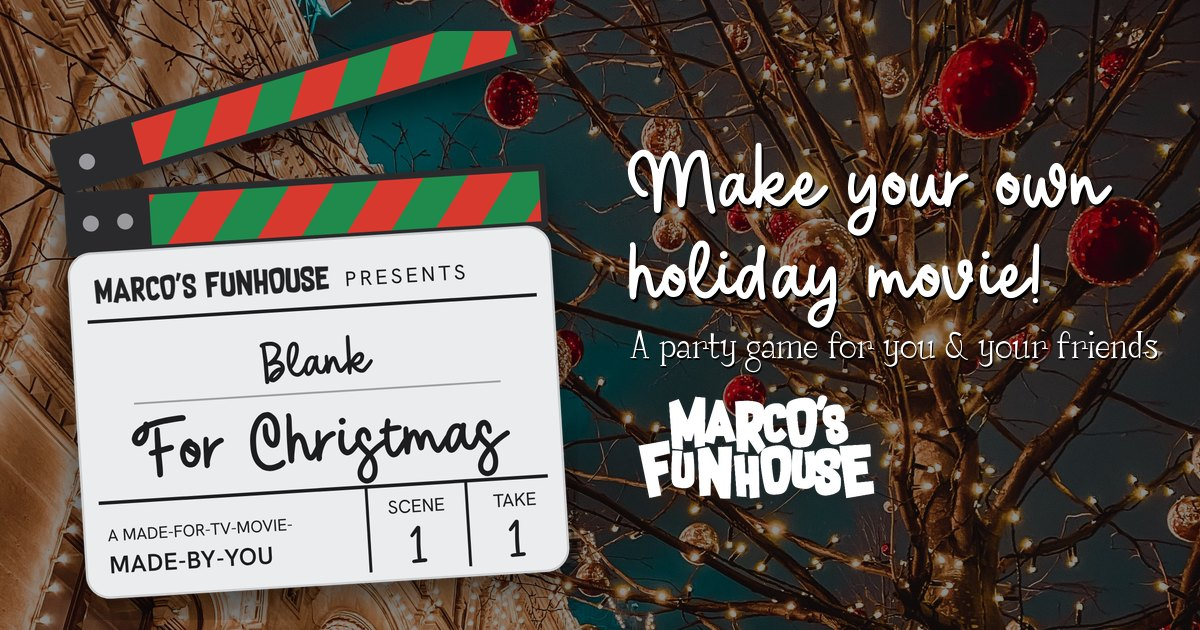
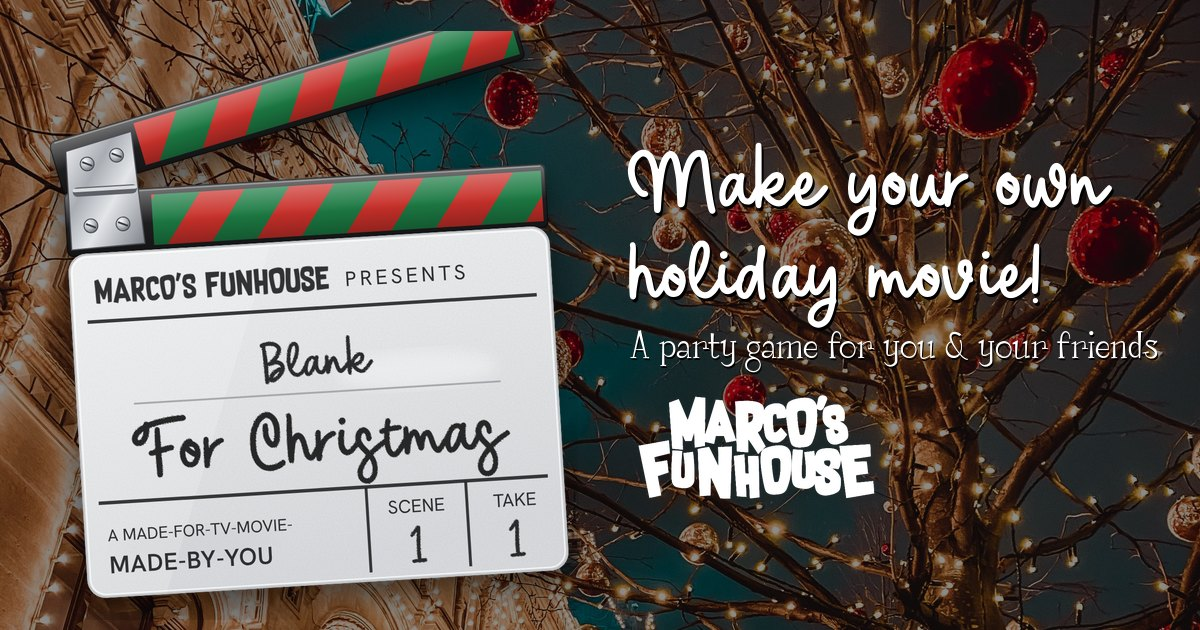
Realistic white-acrylic clapperboard (metal hinge, glossy sticks, marker ink) on home and in-game slates
Claude-Session: https://claude.ai/code/session_01WcKysh1K7ZYbByMHhZ1xmE

diff --git a/public/index.html b/public/index.html
@@ -578,10 +578,18 @@ blockquote.exec{margin:8px 0 6px;padding:2px 0 2px 14px;border-left:4px solid va
 figure.aud{margin:14px 0 0}
 figure.aud blockquote{margin:0;font-family:'Cortesia',cursive;font-size:24px;line-height:1.25}
 figure.aud figcaption{font-size:13px;color:var(--muted);margin-top:2px}
+
+/* realistic clapper sticks/hinge on in-game slates */
+:root{--hinge:linear-gradient(135deg,#f2f3f5 0%,#a9adb3 35%,#e3e5e8 60%,#7d8188 100%);--gloss:linear-gradient(180deg,rgba(255,255,255,.38),rgba(255,255,255,.06) 45%,rgba(0,0,0,.05) 55%,rgba(0,0,0,.35))}
+.round-head,.winner,.tvgrid h1{background:linear-gradient(165deg,#f4f5f6,#dcdee1);border-color:#b9bcc0;box-shadow:0 16px 32px rgba(0,0,0,.4),inset 0 0 0 2px rgba(255,255,255,.8)}
+.round-head::before,.winner::before,.tvgrid h1::before{background:radial-gradient(circle at 21px 18px,#fff 0 1px,#b9bcc1 2.5px,#5d6167 5.5px,transparent 6.5px),var(--hinge) 0 0/44px 100% no-repeat,var(--gloss),var(--stripe);box-shadow:inset 0 0 0 5px #1f1f21,inset 0 1px 0 6px rgba(255,255,255,.08)}
+.round-head::after,.winner::after,.tvgrid h1::after{background:radial-gradient(circle at 21px 15px,#fff 0 1px,#b9bcc1 2.5px,#5d6167 5.5px,transparent 6.5px),var(--hinge) 0 0/44px 100% no-repeat,var(--gloss),var(--stripe);box-shadow:inset 0 0 0 5px #1f1f21}
+.paper::before,.timer::before{background:radial-gradient(circle at 18px 12px,#fff 0 1px,#b9bcc1 2px,#5d6167 4.5px,transparent 5.5px),var(--hinge) 0 0/38px 100% no-repeat,var(--gloss),var(--stripe);box-shadow:inset 0 0 0 4px #1f1f21}
+.round-head h2,.winner h2,.winner h1,.slrow i{filter:url(#hmarkerfx)}
 </style>
 </head>
 <body>
-<div id="snow"></div><div id="flakes" aria-hidden="true"></div>
+<div id="snow"></div><div id="flakes" aria-hidden="true"></div><svg width="0" height="0" style="position:absolute" aria-hidden="true"><filter id="hmarkerfx"><feTurbulence type="fractalNoise" baseFrequency="1.6" numOctaves="1" seed="7" result="n"/><feDisplacementMap in="SourceGraphic" in2="n" scale="1.4"/></filter></svg>
 <div id="app"></div>
 <div id="modal"><div class="sheet" id="sheet"></div></div>
 <div id="toast"></div>
@@ -813,23 +821,32 @@ function slrow(left,scene,take){if(S.game&&S.game.solo&&/^Director/.test(left))l
 function vHome(){
   const saved=ls('hmh_session');const kb=S.ui.kitBusy&&S.ui.kitFrom==='home';
   return `<div class="home"><h1 class="sr">Blank for Christmas: make your own holiday movie</h1>
-  <svg class="slate" viewBox="0 0 460 500" role="img" aria-label="Clapperboard: Marco's Funhouse presents Blank for Christmas, a made-for-TV movie made by you. Scene 1, take 1."><defs><pattern id="stp" width="64" height="64" patternUnits="userSpaceOnUse" patternTransform="rotate(35)"><rect width="32" height="64" fill="#d8392f"/><rect x="32" width="32" height="64" fill="#1f8a4c"/></pattern></defs>
+  <svg class="slate" viewBox="0 0 460 500" role="img" aria-label="Clapperboard: Marco's Funhouse presents Blank for Christmas, a made-for-TV movie made by you. Scene 1, take 1."><defs>
+ <pattern id="stp" width="64" height="64" patternUnits="userSpaceOnUse" patternTransform="rotate(35)"><rect width="32" height="64" fill="#c9302a"/><rect x="32" width="32" height="64" fill="#1c7a43"/></pattern>
+ <linearGradient id="hgloss" x1="0" y1="0" x2="0" y2="1"><stop offset="0" stop-color="#fff" stop-opacity=".38"/><stop offset=".45" stop-color="#fff" stop-opacity=".06"/><stop offset=".55" stop-color="#000" stop-opacity=".05"/><stop offset="1" stop-color="#000" stop-opacity=".35"/></linearGradient>
+ <linearGradient id="hbody" x1="0" y1="0" x2=".25" y2="1"><stop offset="0" stop-color="#f4f5f6"/><stop offset="1" stop-color="#dcdee1"/></linearGradient>
+ <linearGradient id="hmetal" x1="0" y1="0" x2="1" y2="1"><stop offset="0" stop-color="#f2f3f5"/><stop offset=".35" stop-color="#a9adb3"/><stop offset=".6" stop-color="#e3e5e8"/><stop offset="1" stop-color="#7d8188"/></linearGradient>
+ <radialGradient id="hscrew" cx=".35" cy=".3" r=".8"><stop offset="0" stop-color="#fff"/><stop offset=".5" stop-color="#b9bcc1"/><stop offset="1" stop-color="#5d6167"/></radialGradient>
+ <filter id="hgrain" x="0" y="0" width="100%" height="100%"><feTurbulence type="fractalNoise" baseFrequency=".9" numOctaves="2" seed="4"/><feColorMatrix values="0 0 0 0 0  0 0 0 0 0  0 0 0 0 0  0 0 0 .07 0"/><feComposite in2="SourceGraphic" operator="in"/></filter>
+ <filter id="hmarker"><feTurbulence type="fractalNoise" baseFrequency="1.6" numOctaves="1" seed="7" result="n"/><feDisplacementMap in="SourceGraphic" in2="n" scale="1.6"/></filter>
+ <filter id="hsoft"><feGaussianBlur stdDeviation="6"/></filter>
+ <clipPath id="hclip"><rect x="22" y="182" width="420" height="300" rx="16"/></clipPath>
+</defs>
 <g transform="rotate(-3.5 230 300)">
- <g class="arm"><rect x="22" y="76" width="420" height="50" rx="4" fill="#2a2a2c"/><rect x="96" y="82" width="340" height="38" fill="url(#stp)"/></g>
- <rect class="clapbar" x="22" y="128" width="420" height="56" rx="4" fill="#2a2a2c"/><rect x="96" y="134" width="340" height="44" fill="url(#stp)"/>
- <circle cx="44" cy="102" r="7" fill="#9a9a9e"/><circle cx="44" cy="156" r="7" fill="#9a9a9e"/><circle cx="74" cy="156" r="7" fill="#9a9a9e"/>
- <rect x="22" y="182" width="420" height="300" rx="20" fill="#ebeced" stroke="#c9cbce" stroke-width="2"/>
- <image href="${MF_WORDMARK}" x="44" y="203" width="204" height="24" preserveAspectRatio="xMinYMid meet"/>
- <text class="g" x="262" y="224" font-size="18" letter-spacing="3">PRESENTS</text>
- <rect x="36" y="240" width="392" height="3" fill="#1d1d1f"/>
- <text class="c" id="blankWord" x="232" y="304" font-size="40" text-anchor="middle">Blank</text>
- <rect x="72" y="314" width="320" height="1.6" fill="#9b9da1"/>
- <text class="c" x="232" y="380" font-size="58" text-anchor="middle">For Christmas</text>
- <rect x="36" y="398" width="392" height="3" fill="#1d1d1f"/>
- <rect x="268" y="400" width="2.5" height="74" fill="#1d1d1f"/><rect x="355" y="400" width="2.5" height="74" fill="#1d1d1f"/>
- <text class="g" x="42" y="433" font-size="14.5">A MADE-FOR-TV-MOVIE-</text><text class="g" x="42" y="461" font-size="21" font-weight="600" letter-spacing=".5">MADE-BY-YOU</text>
- <text class="g" x="312" y="424" font-size="16" text-anchor="middle">SCENE</text><text class="c" x="312" y="468" font-size="40" text-anchor="middle">1</text>
- <text class="g" x="398" y="424" font-size="16" text-anchor="middle">TAKE</text><text class="c" x="398" y="468" font-size="40" text-anchor="middle">1</text>
+ <g class="arm"><rect x="22" y="78" width="420" height="48" rx="5" fill="#1f1f21"/><rect x="98" y="83" width="340" height="38" fill="url(#stp)"/><rect x="22" y="78" width="420" height="48" rx="5" fill="url(#hgloss)"/><rect x="22.5" y="78.5" width="419" height="47" rx="5" fill="none" stroke="#000" stroke-opacity=".5"/><line x1="27" y1="80" x2="438" y2="80" stroke="#fff" stroke-opacity=".35"/></g>
+ <rect class="clapbar" x="22" y="128" width="420" height="56" rx="5" fill="#1f1f21"/><rect x="98" y="134" width="340" height="44" fill="url(#stp)"/><rect x="22" y="128" width="420" height="56" rx="5" fill="url(#hgloss)"/><rect x="22.5" y="128.5" width="419" height="55" rx="5" fill="none" stroke="#000" stroke-opacity=".5"/><line x1="27" y1="130" x2="438" y2="130" stroke="#fff" stroke-opacity=".35"/>
+ <path d="M26 92 L84 78 L90 176 L26 178 Z" fill="url(#hmetal)" stroke="#4d5056"/><rect x="30" y="124" width="56" height="8" rx="4" fill="#5d6167"/><rect x="30" y="125" width="56" height="3" rx="1.5" fill="#d9dbde"/><g transform="translate(44 104)"><circle r="6" fill="url(#hscrew)" stroke="#44474c" stroke-width=".8"/><line x1="-3.6" y1="-1.6" x2="3.6" y2="1.6" stroke="#3a3d42" stroke-width="1.6" stroke-linecap="round"/></g><g transform="translate(70 98)"><circle r="6" fill="url(#hscrew)" stroke="#44474c" stroke-width=".8"/><line x1="-3.6" y1="-1.6" x2="3.6" y2="1.6" stroke="#3a3d42" stroke-width="1.6" stroke-linecap="round"/></g><g transform="translate(44 158)"><circle r="6" fill="url(#hscrew)" stroke="#44474c" stroke-width=".8"/><line x1="-3.6" y1="-1.6" x2="3.6" y2="1.6" stroke="#3a3d42" stroke-width="1.6" stroke-linecap="round"/></g><g transform="translate(72 158)"><circle r="6" fill="url(#hscrew)" stroke="#44474c" stroke-width=".8"/><line x1="-3.6" y1="-1.6" x2="3.6" y2="1.6" stroke="#3a3d42" stroke-width="1.6" stroke-linecap="round"/></g>
+ <rect x="22" y="182" width="420" height="300" rx="16" fill="url(#hbody)"/>
+ <g clip-path="url(#hclip)"><rect x="22" y="182" width="420" height="300" fill="#fff" filter="url(#hgrain)"/><ellipse cx="320" cy="300" rx="70" ry="16" fill="#fff" opacity=".35" filter="url(#hsoft)"/><ellipse cx="120" cy="440" rx="70" ry="14" fill="#c8cacd" opacity=".3" filter="url(#hsoft)"/><path d="M22 182 L200 182 L90 482 L22 482 Z" fill="#fff" opacity=".18"/></g>
+ <rect x="22.75" y="182.75" width="418.5" height="298.5" rx="15.5" fill="none" stroke="#b9bcc0" stroke-width="1.5"/><rect x="25" y="185" width="414" height="294" rx="13.5" fill="none" stroke="#fff" stroke-opacity=".8"/>
+ <image href="${MF_WORDMARK}" x="44" y="203" width="204" height="24" preserveAspectRatio="xMinYMid meet" opacity=".92"/>
+ <text class="g" x="262" y="224" font-size="18" letter-spacing="3" opacity=".9">PRESENTS</text>
+ <rect x="36" y="240" width="392" height="3" fill="#232325" opacity=".9"/>
+ <g filter="url(#hmarker)"><text class="c" id="blankWord" x="232" y="304" font-size="40" text-anchor="middle" opacity=".93">Blank</text><text class="c" x="232" y="380" font-size="58" text-anchor="middle" opacity=".95">For Christmas</text><text class="c" x="312" y="468" font-size="40" text-anchor="middle" opacity=".93">1</text><text class="c" x="398" y="468" font-size="40" text-anchor="middle" opacity=".93">1</text></g>
+ <rect x="72" y="314" width="320" height="1.6" fill="#a6a9ad"/>
+ <rect x="36" y="398" width="392" height="3" fill="#232325" opacity=".9"/>
+ <rect x="268" y="400" width="2.5" height="74" fill="#232325" opacity=".9"/><rect x="355" y="400" width="2.5" height="74" fill="#232325" opacity=".9"/>
+ <g opacity=".9"><text class="g" x="42" y="433" font-size="14.5">A MADE-FOR-TV-MOVIE-</text><text class="g" x="42" y="461" font-size="21" font-weight="600" letter-spacing=".5">MADE-BY-YOU</text><text class="g" x="312" y="424" font-size="16" text-anchor="middle">SCENE</text><text class="g" x="398" y="424" font-size="16" text-anchor="middle">TAKE</text></g>
 </g></svg>
   <p class="hsum">The made-for-TV holiday movie is in a league of its own. Now it's your turn to produce the next big hit. Grab a few friends, let fate hand you a name, a job, a crisis and a hunk, then pitch your masterpiece. The best pitch gets red-and-green-lit!</p>
   <div class="hbtns">
